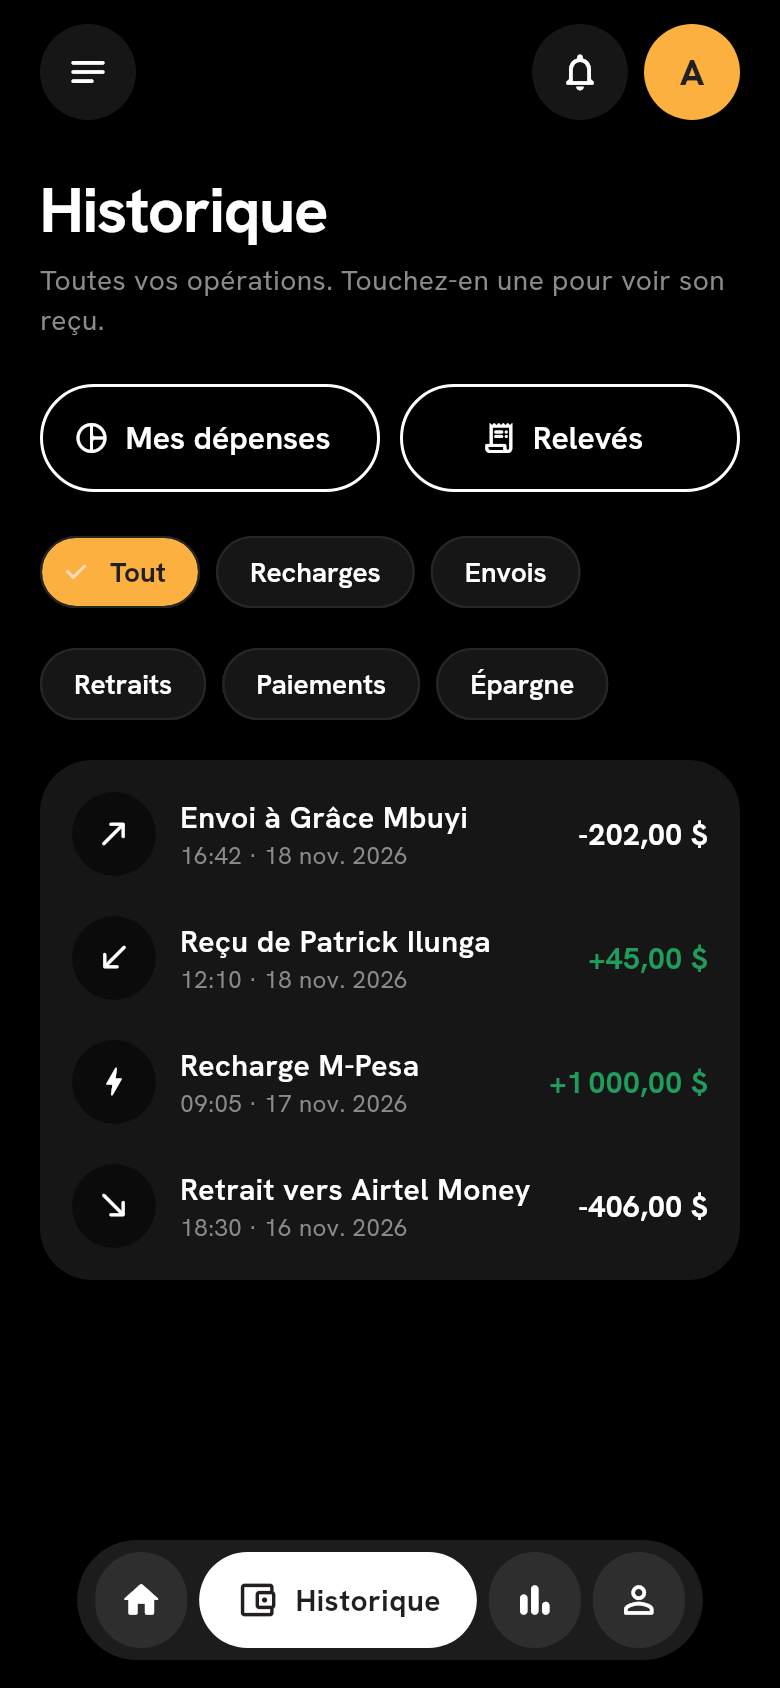
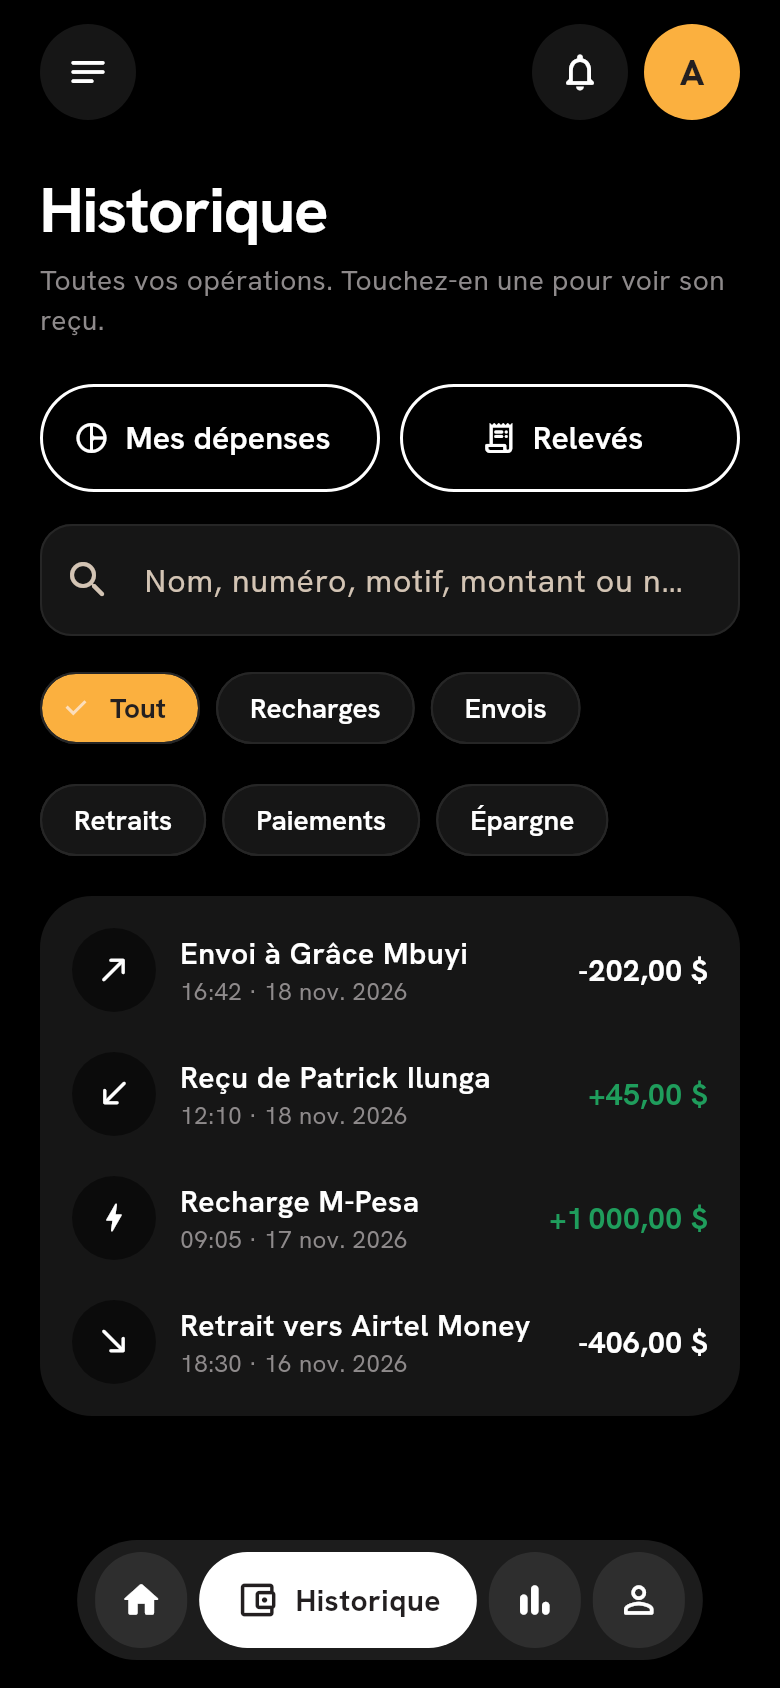
Rechercher dans l'historique : nom, numéro, motif, montant ou n° de reçu, sans tenir compte des accents

diff --git a/backend/src/main/kotlin/cd/capitalinvest/platform/history/History.kt b/backend/src/main/kotlin/cd/capitalinvest/platform/history/History.kt
@@ -103,6 +103,8 @@ data class HistoryQuery(
     val to: LocalDate? = null,
     val cursor: String? = null,
     val limit: Int = 30,
+    /** Texte cherché : nom ou numéro de l'autre client, commerce, facturier, motif, n° de reçu. */
+    val search: String? = null,
 )
 
 @Service
@@ -129,11 +131,13 @@ class HistoryService(
         }
         val limit = q.limit.coerceIn(1, 100)
         val cursor = q.cursor?.let(::decodeCursor)
+        val search = q.search?.let(::searchPattern)
         val where = buildList {
             if (q.category != null) add("t.type IN (:types)")
             if (q.from != null) add("t.created_at >= :from")
             if (q.to != null) add("t.created_at < :to")
             if (cursor != null) add("(t.created_at, t.id) < (:cursorAt, :cursorId)")
+            if (search != null) add(SEARCH)
         }
         val having = when (q.direction) {
             HistoryDirection.IN -> "HAVING SUM(CASE WHEN e.direction = 'CREDIT' THEN e.amount_minor ELSE -e.amount_minor END) > 0"
@@ -147,6 +151,8 @@ class HistoryService(
         if (q.from != null) spec = spec.param("from", q.from.atStartOfDay(zone).toOffsetDateTime())
         if (q.to != null) spec = spec.param("to", q.to.plusDays(1).atStartOfDay(zone).toOffsetDateTime())
         if (cursor != null) spec = spec.param("cursorAt", cursor.first).param("cursorId", cursor.second)
+        if (search != null) spec = spec.param("search", search.like).param("searchDigits", search.digits).param("receipt", search.receipt)
+            .param("searchAmount", search.amountMinor)
         val rows = spec.query { rs, _ -> toItem(rs, maskPhones) }.list()
         val items = rows.take(limit)
         val next = if (rows.size > limit) items.last().let { encodeCursor(it.createdAt, it.id) } else null
@@ -287,6 +293,25 @@ class HistoryService(
         )
     }
 
+    /** Ce que le client a tapé, préparé pour chaque façon de retrouver une opération. */
+    private class Search(val like: String, val digits: String?, val receipt: String?, val amountMinor: Long?)
+
+    private fun searchPattern(raw: String): Search? {
+        val text = raw.trim().replace(Regex("\\s+"), " ")
+        if (text.isEmpty()) return null
+        if (text.length > 60) throw BusinessException("INVALID_SEARCH", "Recherche trop longue (60 caractères au plus)")
+        val escaped = plain(text).replace("\\", "\\\\").replace("%", "\\%").replace("_", "\\_")
+        // Un numéro tapé « 0970 000 402 » ou « 970000402 » : on compare les 9 derniers chiffres.
+        val digits = text.filter { it.isDigit() }.takeIf { it.length >= 6 }?.let { if (it.length > 9) it.takeLast(9) else it }
+        // N° de reçu CI-20261118-3F9A2C : les 6 caractères de fin sont le début de l'identifiant.
+        val receipt = Regex("(?i)^CI-?(\\d{8})-?([0-9A-F]{6})$").find(text.replace(" ", ""))?.let { it.groupValues[2].lowercase() }
+        // Un montant « 25 » ou « 12,50 » : les opérations de ce montant exact.
+        val amount = Regex("^(\\d{1,7})(?:[.,](\\d{1,2}))?\\s*\\$?$").find(text)?.let {
+            it.groupValues[1].toLong() * 100 + it.groupValues[2].padEnd(2, '0').ifEmpty { "0" }.toLong()
+        }
+        return Search("%$escaped%", digits, receipt, amount)
+    }
+
     fun receiptNumber(id: UUID, at: OffsetDateTime): String =
         "CI-" + at.atZoneSameInstant(zone).toLocalDate().format(DateTimeFormatter.BASIC_ISO_DATE) + "-" +
             id.toString().replace("-", "").take(6).uppercase()
@@ -302,6 +327,48 @@ class HistoryService(
     }
 
     companion object {
+        /**
+         * Filtre de la recherche, dans la sélection des opérations (avant la pagination) :
+         * motif, nom ou numéro de l'autre client, commerce, facturier ou référence, n° de reçu.
+         */
+        private const val ACCENTS = "àâäáãéèêëíìîïóòôöõúùûüçñ"
+        private const val PLAIN = "aaaaaeeeeiiiiooooouuuucn"
+
+        /** Minuscules sans accents, côté base : « Grâce » se trouve en tapant « grace ». */
+        private fun norm(column: String) = "translate(lower($column), '$ACCENTS', '$PLAIN')"
+
+        /** Même transformation pour le texte tapé. */
+        fun plain(text: String) = text.lowercase().map { c -> ACCENTS.indexOf(c).let { if (it < 0) c else PLAIN[it] } }.joinToString("")
+
+        private val SEARCH = """(
+            ${norm("t.description")} LIKE :search
+            OR (CAST(:searchAmount AS bigint) IS NOT NULL AND EXISTS (
+                SELECT 1 FROM ledger_entry ae WHERE ae.transaction_id = t.id AND ae.account_id = :wallet AND ae.amount_minor = :searchAmount
+            ))
+            OR (CAST(:receipt AS text) IS NOT NULL AND replace(CAST(t.id AS text), '-', '') LIKE :receipt || '%')
+            OR EXISTS (
+                SELECT 1 FROM ledger_entry se
+                  JOIN ledger_account sa ON sa.id = se.account_id
+                  JOIN customer sc ON sc.id = sa.customer_id
+                 WHERE se.transaction_id = t.id AND sa.type = 'CUSTOMER_WALLET' AND sa.id <> :wallet
+                   AND (${norm("sc.full_name")} LIKE :search OR (CAST(:searchDigits AS text) IS NOT NULL AND sc.phone LIKE '%' || :searchDigits || '%'))
+            )
+            OR EXISTS (
+                SELECT 1 FROM ledger_entry me JOIN merchant m ON m.wallet_account_id = me.account_id
+                 WHERE me.transaction_id = t.id AND (${norm("m.name")} LIKE :search OR ${norm("m.code")} LIKE :search)
+            )
+            OR EXISTS (
+                SELECT 1 FROM bill_payment bp
+                 WHERE (bp.hold_transaction_id = t.id OR t.idempotency_key = 'bill-refund:' || bp.id)
+                   AND (${norm("bp.reference")} LIKE :search OR ${norm("bp.biller")} LIKE :search)
+            )
+            OR EXISTS (
+                SELECT 1 FROM airtime_purchase ap
+                 WHERE (ap.hold_transaction_id = t.id OR t.idempotency_key = 'airtime-refund:' || ap.id)
+                   AND CAST(:searchDigits AS text) IS NOT NULL AND ap.msisdn LIKE '%' || :searchDigits || '%'
+            )
+        )"""
+
         /** +243970000402 devient +243 97• ••• 402 : assez pour reconnaître un proche, pas pour recopier le numéro. */
         fun maskPhone(phone: String): String =
             if (phone.length < 8) phone else "${phone.take(4)} ${phone.substring(4, 6)}• ••• ${phone.takeLast(3)}"
@@ -320,7 +387,8 @@ class HistoryController(private val history: HistoryService) {
         @RequestParam(required = false) to: LocalDate?,
         @RequestParam(required = false) cursor: String?,
         @RequestParam(defaultValue = "30") limit: Int,
-    ): HistoryPage = history.page(customerId, HistoryQuery(category, direction, from, to, cursor, limit), maskPhones = true)
+        @RequestParam(required = false) q: String?,
+    ): HistoryPage = history.page(customerId, HistoryQuery(category, direction, from, to, cursor, limit, q), maskPhones = true)
 
     @GetMapping("/{id}")
     fun receipt(@RequestAttribute(CUSTOMER_ID_ATTRIBUTE) customerId: UUID, @PathVariable id: UUID): Receipt =

diff --git a/mobile/lib/screens/history_screens.dart b/mobile/lib/screens/history_screens.dart
@@ -1,3 +1,5 @@
+import 'dart:async';
+
 import 'package:material_ui/material_ui.dart';
 
 import '../api/models.dart';
@@ -146,6 +148,11 @@ class _HistoryViewState extends State<HistoryView> with ApiAction {
   String? category;
   List<HistoryItem>? items;
   String? next;
+  final search = TextEditingController();
+  Timer? _typing;
+
+  /// Texte cherché, null sans recherche.
+  String? get _query => search.text.trim().isEmpty ? null : search.text.trim();
 
   @override
   void initState() {
@@ -153,13 +160,43 @@ class _HistoryViewState extends State<HistoryView> with ApiAction {
     _load(reset: true);
   }
 
+  @override
+  void dispose() {
+    _typing?.cancel();
+    search.dispose();
+    super.dispose();
+  }
+
+  /// On cherche quand le client s'arrête de taper, pas à chaque lettre.
+  void _searchChanged(String _) {
+    _typing?.cancel();
+    _typing = Timer(const Duration(milliseconds: 400), _reload);
+    setState(() {}); // bouton d'effacement
+  }
+
+  void _clearSearch() {
+    _typing?.cancel();
+    search.clear();
+    _reload();
+  }
+
+  void _reload() {
+    if (!mounted) return;
+    setState(() {
+      items = null;
+      next = null;
+    });
+    _load(reset: true);
+  }
+
   Future<void> _load({required bool reset}) async {
     final wanted = category;
+    final query = _query;
     final page = await run(
       widget.app,
-      () => widget.app.api.history(category: wanted, cursor: reset ? null : next, limit: 20),
+      () => widget.app.api.history(category: wanted, cursor: reset ? null : next, limit: 20, search: query),
     );
-    if (page == null || !mounted || wanted != category) return;
+    if (page == null || !mounted || wanted != category || query != _query) return;
     setState(() {
       items = [if (!reset) ...?items, ...page.items];
       next = page.nextCursor;
@@ -182,6 +219,24 @@ class _HistoryViewState extends State<HistoryView> with ApiAction {
     return Column(
       crossAxisAlignment: CrossAxisAlignment.stretch,
       children: [
+        TextField(
+          key: const ValueKey('history-search'),
+          controller: search,
+          onChanged: _searchChanged,
+          textInputAction: TextInputAction.search,
+          onSubmitted: (_) {
+            _typing?.cancel();
+            _reload();
+          },
+          decoration: InputDecoration(
+            hintText: 'Nom, numéro, motif, montant ou n° de reçu',
+            prefixIcon: const Icon(Icons.search_rounded),
+            suffixIcon: search.text.isEmpty
+                ? null
+                : IconButton(tooltip: 'Effacer', icon: const Icon(Icons.close_rounded), onPressed: _clearSearch),
+          ),
+        ),
+        const SizedBox(height: 12),
         Wrap(
           spacing: 8,
           runSpacing: 8,
@@ -211,7 +266,11 @@ class _HistoryViewState extends State<HistoryView> with ApiAction {
                 Padding(
                   padding: const EdgeInsets.symmetric(vertical: 18),
                   child: Text(
-                    category == null ? 'Aucune opération pour l\'instant. Commencez par une recharge.' : 'Aucune opération de ce type.',
+                    _query != null
+                        ? 'Aucune opération ne correspond à « $_query ».'
+                        : category == null
+                        ? 'Aucune opération pour l\'instant. Commencez par une recharge.'
+                        : 'Aucune opération de ce type.',
                     style: TextStyle(color: context.pal.muted),
                   ),
                 ),

diff --git a/backend/src/test/kotlin/cd/capitalinvest/platform/HistorySearchApiTest.kt b/backend/src/test/kotlin/cd/capitalinvest/platform/HistorySearchApiTest.kt
@@ -1,0 +1,61 @@
+package cd.capitalinvest.platform
+
+import org.junit.jupiter.api.Test
+import org.springframework.test.web.servlet.get
+import org.springframework.test.web.servlet.post
+import kotlin.test.assertEquals
+
+class HistorySearchApiTest : ApiTest() {
+
+    private fun search(s: Session, q: String, extra: String = "") =
+        mvc.get("/v1/me/history?x=1$extra") {
+            header("Authorization", "Bearer ${s.token}")
+            param("q", q)
+        }
+
+    private fun kinds(s: Session, q: String, extra: String = "") =
+        search(s, q, extra).andExpect { status { isOk() } }.body()["items"].map { "${it["kind"].asText()}:${it["amountMinor"].asLong()}" }
+
+    @Test
+    fun `recherche par motif, nom, numero, montant et numero de recu`() {
+        val alice = register("+243970004101")
+        val bob = register("+243970004102")
+        register("+243970004103")
+        topupConfirmed(alice, 20_000, "t1")
+        transfer(alice, bob.phone, 2_500, "a").andExpect { status { isCreated() } }
+        mvc.post("/v1/transfers") {
+            header("Authorization", "Bearer ${alice.token}")
+            header("Idempotency-Key", "b")
+            contentType = org.springframework.http.MediaType.APPLICATION_JSON
+            content = """{"toPhone":"+243970004103","amountMinor":1250,"pin":"2580","note":"Loyer de novembre"}"""
+        }.andExpect { status { isCreated() } }
+
+        assertEquals(listOf("TRANSFER_SENT:1250"), kinds(alice, "loyer"))
+        assertEquals(listOf("TRANSFER_SENT:1250"), kinds(alice, "  LOYER   de  "))
+        // Sans accents ni majuscules : « novembré » mal tapé, « Grâce » tapé « grace ».
+        jdbc.sql("UPDATE customer SET full_name = 'Grâce Mbuyi' WHERE phone = '+243970004103'").update()
+        assertEquals(listOf("TRANSFER_SENT:1250"), kinds(alice, "grace mbuyi"))
+        assertEquals(listOf("TRANSFER_SENT:1250"), kinds(alice, "GRÂCE"))
+        assertEquals(listOf("TRANSFER_SENT:2500"), kinds(alice, "client +243970004102"))
+        // Le numéro, tapé comme on le dicte.
+        assertEquals(listOf("TRANSFER_SENT:2500"), kinds(alice, "0970 004 102"))
+        assertEquals(listOf("TRANSFER_SENT:2500"), kinds(alice, "25"))
+        assertEquals(listOf("TRANSFER_SENT:1250"), kinds(alice, "12,50"))
+        assertEquals(2, kinds(alice, "970004").size)
+
+        val topup = mvc.get("/v1/me/history?category=TOPUP") { header("Authorization", "Bearer ${alice.token}") }.body()["items"][0]
+        assertEquals(listOf("TOPUP:20000"), kinds(alice, topup["receiptNumber"].asText().lowercase()))
+
+        // Les filtres se combinent, et les caractères spéciaux sont cherchés tels quels.
+        assertEquals(emptyList(), kinds(alice, "loyer", "&category=TOPUP"))
+        assertEquals(emptyList(), kinds(alice, "%"))
+        assertEquals(emptyList(), kinds(alice, "zzz"))
+        assertEquals(3, kinds(alice, "   ").size)
+
+        // Chez le destinataire, l'expéditeur se retrouve par son numéro.
+        assertEquals(listOf("TRANSFER_RECEIVED:2500"), kinds(bob, "970004101"))
+
+        search(alice, "x".repeat(61)).andExpect { status { isUnprocessableEntity() } }
+            .andExpect { jsonPath("$.code") { value("INVALID_SEARCH") } }
+    }
+}

diff --git a/mobile/test/app_flow_test.dart b/mobile/test/app_flow_test.dart
@@ -113,6 +113,40 @@ void main() {
     expect(find.byType(TopupScreen), findsOneWidget);
   });
 
+  testWidgets('historique : recherche par nom ou motif, combinée aux filtres, puis effacée', (tester) async {
+    server.history = [
+      FakeServer.historyItem('s1', 'TRANSFER_SENT', -2020, fee: 20, name: 'Béni Mukendi', phone: '+243 97• ••• 402', note: 'Loyer'),
+      FakeServer.historyItem('r1', 'TRANSFER_RECEIVED', 4500, name: 'Patrick Ilunga', phone: '+243 99• ••• 870'),
+      FakeServer.historyItem('t1', 'TOPUP', 1000, operator: 'MPESA'),
+    ];
+    await start(tester);
+    await login(tester);
+    await tester.tap(find.byTooltip('Historique'));
+    await tester.pumpAndSettle();
+    expect(find.text('Recharge M-Pesa'), findsOneWidget);
+
+    // Une seule requête quand le client a fini de taper.
+    await tester.enterText(find.byKey(const ValueKey('history-search')), 'loy');
+    await tester.pump(const Duration(milliseconds: 100));
+    await tester.enterText(find.byKey(const ValueKey('history-search')), 'loyer');
+    await tester.pump(const Duration(milliseconds: 500));
+    await tester.pumpAndSettle();
+    final searches = server.requests.where((r) => r.url.path == '/v1/me/history' && r.url.queryParameters.containsKey('q'));
+    expect(searches.map((r) => r.url.queryParameters['q']).toList(), ['loyer']);
+    expect(find.text('Envoi à Béni Mukendi'), findsOneWidget);
+    expect(find.text('Recharge M-Pesa'), findsNothing);
+
+    await tester.tap(find.byKey(const ValueKey('filter-TOPUP')));
+    await tester.pumpAndSettle();
+    expect(server.requests.last.url.queryParameters, containsPair('q', 'loyer'));
+    expect(find.text('Aucune opération ne correspond à « loyer ».'), findsOneWidget);
+
+    await tester.tap(find.byTooltip('Effacer'));
+    await tester.pumpAndSettle();
+    expect(server.requests.last.url.queryParameters.containsKey('q'), isFalse);
+    expect(find.text('Recharge M-Pesa'), findsOneWidget);
+  });
+
   testWidgets('historique : filtres, page suivante, puis reçu partagé', (tester) async {
     server.history = [
       FakeServer.historyItem('w1', 'WITHDRAWAL', -1015, fee: 15, operator: 'AIRTEL', msisdn: '+243970000001', status: 'PENDING'),

diff --git a/mobile/test/fake_server.dart b/mobile/test/fake_server.dart
@@ -535,7 +535,12 @@ class FakeServer {
           'SAVINGS' => ['SAVINGS_DEPOSIT', 'SAVINGS_WITHDRAWAL'],
           _ => null,
         };
-        final all = history.where((h) => kinds == null || kinds.contains(h['kind'])).toList();
+        // Recherche simplifiée : nom, numéro ou motif contenant le texte.
+        final q = req.url.queryParameters['q']?.toLowerCase();
+        bool matches(Map<String, dynamic> h) =>
+            q == null || [h['counterpartyName'], h['counterpartyPhone'], h['note'], h['receiptNumber']]
+                .any((v) => v is String && v.toLowerCase().contains(q));
+        final all = history.where((h) => (kinds == null || kinds.contains(h['kind'])) && matches(h)).toList();
         final limit = int.parse(req.url.queryParameters['limit'] ?? '30');
         final start = int.parse(req.url.queryParameters['cursor'] ?? '0');
         final end = (start + limit).clamp(0, all.length);

diff --git a/mobile/lib/api/api_client.dart b/mobile/lib/api/api_client.dart
@@ -328,8 +328,10 @@ class ApiClient {
   Future<Limits> cancelDailyLimitRaise() async => Limits.fromJson(await _delete('/v1/me/limits/daily/pending'));
 
   /// Historique des opérations. [category] : TOPUP, TRANSFER ou WITHDRAWAL ; [cursor] : page suivante.
-  Future<HistoryPage> history({String? category, String? cursor, int limit = 30}) async =>
-      HistoryPage.fromJson(await _get('/v1/me/history', {'category': ?category, 'cursor': ?cursor, 'limit': '$limit'}));
+  /// [search] : nom, numéro, motif, montant ou n° de reçu.
+  Future<HistoryPage> history({String? category, String? cursor, int limit = 30, String? search}) async => HistoryPage.fromJson(
+    await _get('/v1/me/history', {'category': ?category, 'cursor': ?cursor, 'limit': '$limit', 'q': ?search}),
+  );
 
   Future<Receipt> receipt(String id) async => Receipt.fromJson(await _get('/v1/me/history/$id'));
 

diff --git a/mobile/lib/ui/messages.dart b/mobile/lib/ui/messages.dart
@@ -30,6 +30,7 @@ String messageFor(Object error) {
     'RECIPIENT_NOT_FOUND' => 'Aucun client Capital Invest avec ce numéro.',
     'RECIPIENT_LOOKUP_LIMIT' => 'Trop de numéros vérifiés en une heure. Réessayez plus tard.',
     'RECIPIENT_NOT_ACTIVE' => 'Ce compte ne peut pas recevoir d\'argent pour le moment.',
+    'INVALID_SEARCH' => 'Recherche trop longue : 60 caractères au plus.',
     'SAME_ACCOUNT' => 'Vous ne pouvez pas vous envoyer de l\'argent.',
     'LIMIT_PER_TRANSACTION' => 'Montant au-dessus de votre plafond par opération.',
     'LIMIT_DAILY_PERSONAL' => 'Plafond par jour que vous avez choisi atteint. Vous pouvez le changer dans Sécurité.',

diff --git a/mobile/integration_check/screenshots_test.dart b/mobile/integration_check/screenshots_test.dart
@@ -136,6 +136,14 @@ void main() {
 
       await nav(tester, 'Historique');
       await shot('2b-historique$suffix');
+      await tester.enterText(find.byKey(const ValueKey('history-search')), 'grâce');
+      await tester.pump(const Duration(milliseconds: 500));
+      await tester.pumpAndSettle();
+      await shot('24-recherche-historique$suffix');
+      await tester.tap(find.byTooltip('Effacer'));
+      await tester.pumpAndSettle();
+      FocusManager.instance.primaryFocus?.unfocus();
+      await tester.pumpAndSettle();
       await tester.tap(find.text('Envoi à Grâce Mbuyi'));
       await tester.pumpAndSettle();
       await shot('2e-recu$suffix');

diff --git a/README.md b/README.md
@@ -253,6 +253,15 @@ Le client voit **une ligne par opération** (pas une ligne par écriture comptab
 
 Back-office, rôles `COMPLIANCE` et `ADMIN` (écran « Clients ») : `GET /v1/backoffice/customers?phone=…` (numéro en `+243…`, `243…`, `0…` ou 9 chiffres), `GET /v1/backoffice/customers/{id}/history` et `GET /v1/backoffice/customers/{id}/history/{operation}`. Les numéros y sont complets, et chaque recherche est inscrite dans `audit_log` (`CUSTOMER_VIEWED`).
 
+### Rechercher une opération
+
+En haut de l'historique, un champ cherche dans **toutes** les opérations, pas seulement celles qui sont affichées. On peut taper le nom ou le numéro de l'autre client, le motif, un commerce, une facture, un montant (« 25 », « 12,50 ») ou un n° de reçu (« CI-20261118-3F9A2C »). La recherche se combine avec les filtres et la pagination. Elle ne tient compte ni des majuscules ni des accents : « grace » trouve « Grâce ».
+
+![Recherche dans l'historique](docs/captures-app/24-recherche-historique.png)
+
+- API : `GET /v1/me/history?q=…`, avec les autres paramètres habituels. 60 caractères au plus (`INVALID_SEARCH`). Un numéro est comparé sur ses 9 derniers chiffres, quelle que soit la façon de l'écrire (« 0970 004 102 », « +243… »). Les `%` et `_` tapés sont cherchés tels quels.
+- L'app attend que le client ait fini de taper (400 ms) avant d'interroger le serveur, puis ignore les réponses arrivées trop tard.
+
 ## Mes dépenses
 
 Dans l'app, Historique, puis **Mes dépenses** : où part l'argent du mois, par catégorie, comparé au mois d'avant.
